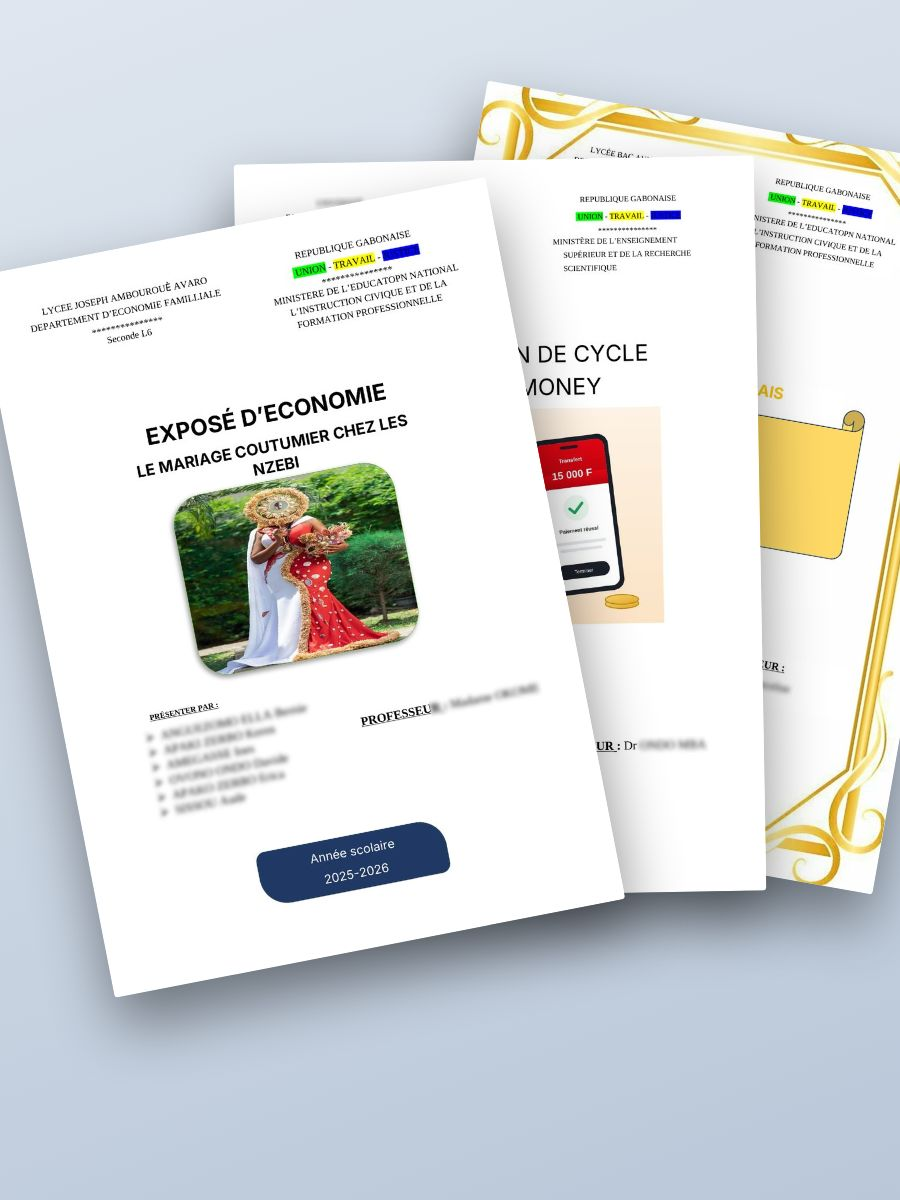
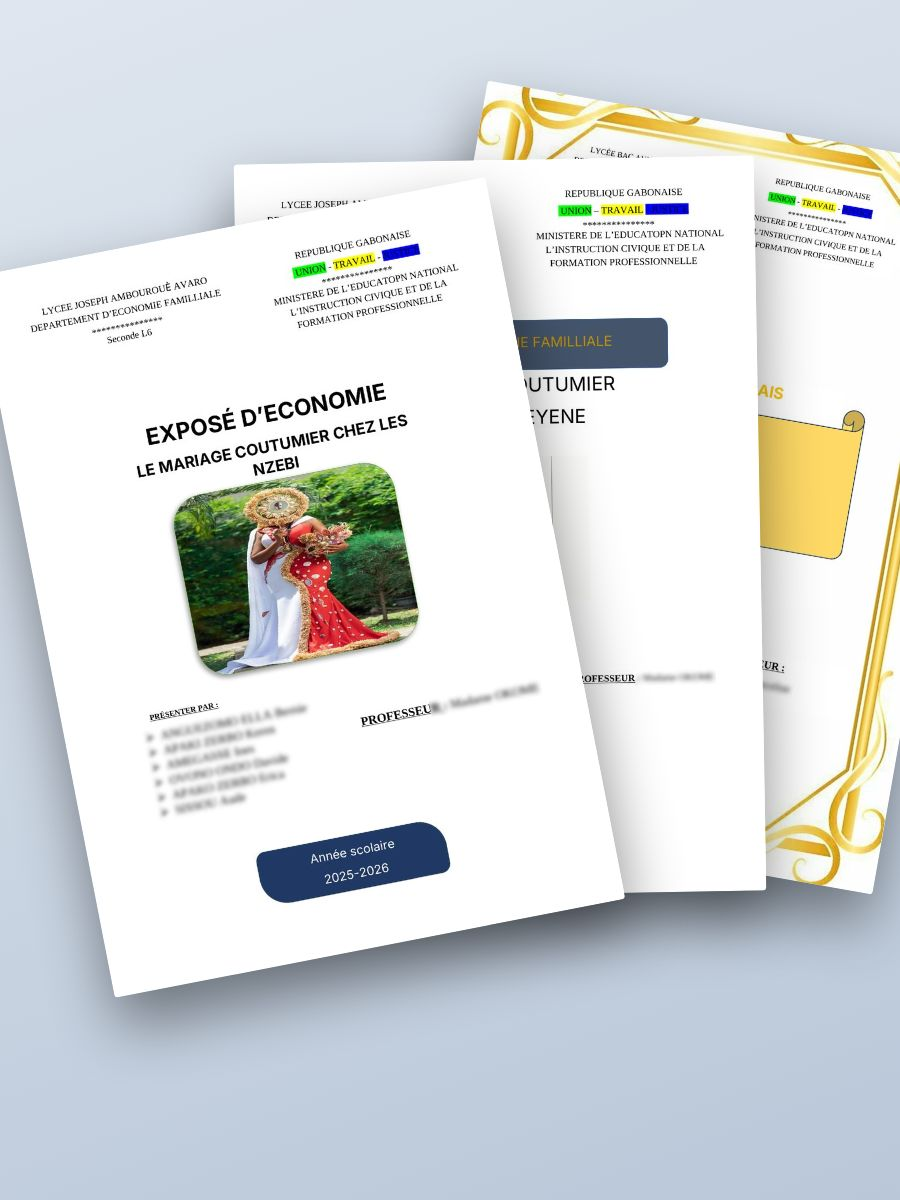
Ne garder que les réalisations réelles, photo sur le CV, ajout de Sentinel-Grid
- DEX : retrait des documents créés (rapport, mémoires, plan d'affaires) ; CV avec photo floutée
- Visuo : retrait des visuels créés, en attente des créations Canva
- Logia : ajout de Sentinel-Grid

Claude-Session: https://claude.ai/code/session_016jUhftS51Xg4Fh975KBxor

diff --git a/visuo.html b/visuo.html
@@ -139,64 +139,24 @@
         <div class="entete-section apparait">
           <p class="surtitre">Nos réalisations</p>
           <h2 class="titre-section" id="titre-real">Sortis de l'atelier.</h2>
-          <p class="intro-section">Affiches, publications, identités, imprimés et sites conçus par Visuo. Touchez un visuel pour l'agrandir.</p>
+          <p class="intro-section">Identités et sites conçus par Visuo. Touchez un visuel pour l'agrandir.</p>
         </div>
         <div class="filtres" data-filtres role="group" aria-label="Filtrer les réalisations">
           <button class="filtre" type="button" data-filtre="tous" aria-pressed="true">Tous</button>
-          <button class="filtre" type="button" data-filtre="affiche" aria-pressed="false">Affiches et flyers</button>
-          <button class="filtre" type="button" data-filtre="reseaux" aria-pressed="false">Réseaux sociaux</button>
           <button class="filtre" type="button" data-filtre="identite" aria-pressed="false">Logos et identité</button>
-          <button class="filtre" type="button" data-filtre="imprime" aria-pressed="false">Imprimés</button>
-          <button class="filtre" type="button" data-filtre="video" aria-pressed="false">Vidéo</button>
           <button class="filtre" type="button" data-filtre="web" aria-pressed="false">Sites web</button>
         </div>
         <div class="planche apparait">
           <div class="planche__grille">
-          <figure class="plan-travail" data-cat="affiche">
-            <figcaption class="plan-travail__nom"><span>Affiche · Rentrée DEX</span><span>A3</span></figcaption>
-            <button class="plan-travail__cadre" type="button" data-pages="assets/img/visuo/affiche-dex.jpg" data-titre="Affiche · Rentrée DEX" data-sous="Format A3"><img src="assets/img/visuo/affiche-dex.jpg" alt="Affiche de rentrée pour DEX" loading="lazy"></button>
-          </figure>
-          <figure class="plan-travail" data-cat="reseaux">
-            <figcaption class="plan-travail__nom"><span>Publication · Logo</span><span>1080 × 1080</span></figcaption>
-            <button class="plan-travail__cadre" type="button" data-pages="assets/img/visuo/post-logo.jpg" data-titre="Publication · Logo" data-sous="Format 1080 × 1080"><img src="assets/img/visuo/post-logo.jpg" alt="Publication carrée pour les logos Visuo" loading="lazy"></button>
-          </figure>
           <figure class="plan-travail" data-cat="identite">
             <figcaption class="plan-travail__nom"><span>Identité · Marques DWTS</span><span>1600 × 1000</span></figcaption>
             <button class="plan-travail__cadre" type="button" data-pages="assets/img/visuo/identite.jpg" data-titre="Identité · Marques DWTS" data-sous="Format 1600 × 1000"><img src="assets/img/visuo/identite.jpg" alt="Planche d’identité des marques DWTS" loading="lazy"></button>
-          </figure>
-          <figure class="plan-travail" data-cat="identite imprime">
-            <figcaption class="plan-travail__nom"><span>Carte de visite · DWTS</span><span>85 × 55 mm</span></figcaption>
-            <button class="plan-travail__cadre plan-travail__duo" type="button" data-pages="assets/img/visuo/carte-recto.jpg|assets/img/visuo/carte-verso.jpg" data-titre="Carte de visite DWTS" data-sous="Recto et verso"><img src="assets/img/visuo/carte-recto.jpg" alt="Carte de visite DWTS, recto" loading="lazy"><img src="assets/img/visuo/carte-verso.jpg" alt="Carte de visite DWTS, verso" loading="lazy"></button>
-          </figure>
-          <figure class="plan-travail" data-cat="affiche">
-            <figcaption class="plan-travail__nom"><span>Flyer · Services Visuo</span><span>A5</span></figcaption>
-            <button class="plan-travail__cadre" type="button" data-pages="assets/img/visuo/flyer-visuo.jpg" data-titre="Flyer · Services Visuo" data-sous="Format A5"><img src="assets/img/visuo/flyer-visuo.jpg" alt="Flyer des services Visuo" loading="lazy"></button>
-          </figure>
-          <figure class="plan-travail" data-cat="reseaux">
-            <figcaption class="plan-travail__nom"><span>Publication · DEX</span><span>1080 × 1080</span></figcaption>
-            <button class="plan-travail__cadre" type="button" data-pages="assets/img/visuo/post-dex.jpg" data-titre="Publication · DEX" data-sous="Format 1080 × 1080"><img src="assets/img/visuo/post-dex.jpg" alt="Publication pour DEX" loading="lazy"></button>
           </figure>
           <figure class="plan-travail" data-cat="web">
             <figcaption class="plan-travail__nom"><span>Site web · DWTS</span><span>1440 × 900</span></figcaption>
             <button class="plan-travail__cadre" type="button" data-pages="assets/img/visuo/site-web.jpg" data-titre="Site web DWTS" data-sous="Site vitrine">
               <span class="cadre-navigateur"><span class="cadre-navigateur__barre"><i></i><i></i><i></i><span>dwts — accueil</span></span><img src="assets/img/visuo/site-web.jpg" alt="Page d’accueil du site DWTS" loading="lazy"></span>
             </button>
-          </figure>
-          <figure class="plan-travail" data-cat="imprime">
-            <figcaption class="plan-travail__nom"><span>Carte d’invitation · Mariage coutumier</span><span>12 × 17 cm</span></figcaption>
-            <button class="plan-travail__cadre" type="button" data-pages="assets/img/visuo/invitation.jpg" data-titre="Carte d’invitation · Mariage coutumier" data-sous="Format 12 × 17 cm"><img src="assets/img/visuo/invitation.jpg" alt="Carte d’invitation de mariage coutumier" loading="lazy"></button>
-          </figure>
-          <figure class="plan-travail" data-cat="video">
-            <figcaption class="plan-travail__nom"><span>Vidéo publicitaire · Story</span><span>1080 × 1920</span></figcaption>
-            <button class="plan-travail__cadre" type="button" data-pages="assets/img/visuo/video.jpg" data-titre="Vidéo publicitaire · Story" data-sous="Format 1080 × 1920"><img src="assets/img/visuo/video.jpg" alt="Image de la vidéo publicitaire Visuo" loading="lazy"></button>
-          </figure>
-          <figure class="plan-travail" data-cat="reseaux">
-            <figcaption class="plan-travail__nom"><span>Publication · Logia</span><span>1080 × 1080</span></figcaption>
-            <button class="plan-travail__cadre" type="button" data-pages="assets/img/visuo/post-logia.jpg" data-titre="Publication · Logia" data-sous="Format 1080 × 1080"><img src="assets/img/visuo/post-logia.jpg" alt="Publication pour Logia" loading="lazy"></button>
-          </figure>
-          <figure class="plan-travail" data-cat="imprime">
-            <figcaption class="plan-travail__nom"><span>Facture · Modèle DWTS</span><span>A4</span></figcaption>
-            <button class="plan-travail__cadre" type="button" data-pages="assets/img/visuo/facture.jpg" data-titre="Facture · Modèle DWTS" data-sous="Format A4"><img src="assets/img/visuo/facture.jpg" alt="Modèle de facture DWTS" loading="lazy"></button>
           </figure>
           </div>
         </div>

diff --git a/dex.html b/dex.html
@@ -64,9 +64,9 @@
         </div>
         <div class="pile" data-pile aria-hidden="true">
           <div class="pile__corps">
-            <img class="pile__page" style="--i:0" src="assets/img/dex/memoire-master.jpg" alt="">
+            <img class="pile__page" style="--i:0" src="assets/img/dex/expose-anglais.jpg" alt="">
             <img class="pile__page" style="--i:1" src="assets/img/dex/expose-classicisme.jpg" alt="">
-            <img class="pile__page" style="--i:2" src="assets/img/dex/memoire-licence.jpg" alt="">
+            <img class="pile__page" style="--i:2" src="assets/img/dex/expose-meyene.jpg" alt="">
             <img class="pile__page" style="--i:3" src="assets/img/dex/expose-nzebi.jpg" alt="">
           </div>
           <span class="pile__trombone"></span>
@@ -214,10 +214,7 @@
         <div class="filtres" data-filtres role="group" aria-label="Filtrer les réalisations">
           <button class="filtre" type="button" data-filtre="tous" aria-pressed="true">Tous</button>
           <button class="filtre" type="button" data-filtre="expose" aria-pressed="false">Exposés</button>
-          <button class="filtre" type="button" data-filtre="rapport" aria-pressed="false">Rapports de stage</button>
-          <button class="filtre" type="button" data-filtre="memoire" aria-pressed="false">Mémoires</button>
           <button class="filtre" type="button" data-filtre="cv" aria-pressed="false">CV et lettres</button>
-          <button class="filtre" type="button" data-filtre="pro" aria-pressed="false">Documents professionnels</button>
         </div>
         <div class="docs">
           <button class="doc apparait" type="button" style="--delai:0.00s" data-cat="expose" data-pages="assets/img/dex/expose-nzebi.jpg|assets/img/dex/expose-nzebi-2.jpg|assets/img/dex/expose-nzebi-3.jpg|assets/img/dex/expose-nzebi-4.jpg|assets/img/dex/expose-nzebi-5.jpg" data-titre="Le mariage coutumier chez les Nzebi" data-sous="Exposé · Économie familiale · Seconde">
@@ -236,25 +233,9 @@
             <span class="doc__pile"><img src="assets/img/dex/expose-classicisme.jpg" alt="Page de garde : Le classicisme" loading="lazy" width="820" height="1159"></span>
             <span class="doc__legende"><b>Le classicisme</b><small>Exposé · Français · Première</small></span>
           </button>
-          <button class="doc apparait" type="button" style="--delai:0.00s" data-cat="rapport" data-pages="assets/img/dex/rapport-stage.jpg" data-titre="La gestion des stocks au sein d’une PME" data-sous="Rapport de stage · BTS Gestion commerciale">
-            <span class="doc__pile"><img src="assets/img/dex/rapport-stage.jpg" alt="Page de garde : La gestion des stocks au sein d’une PME" loading="lazy" width="820" height="1159"></span>
-            <span class="doc__legende"><b>La gestion des stocks au sein d’une PME</b><small>Rapport de stage · BTS Gestion commerciale</small></span>
-          </button>
-          <button class="doc apparait" type="button" style="--delai:0.07s" data-cat="memoire" data-pages="assets/img/dex/memoire-licence.jpg" data-titre="Le mobile money et les petits commerces" data-sous="Mémoire de fin de cycle · Licence 3">
-            <span class="doc__pile"><img src="assets/img/dex/memoire-licence.jpg" alt="Page de garde : Le mobile money et les petits commerces" loading="lazy" width="820" height="1159"></span>
-            <span class="doc__legende"><b>Le mobile money et les petits commerces</b><small>Mémoire de fin de cycle · Licence 3</small></span>
-          </button>
-          <button class="doc apparait" type="button" style="--delai:0.14s" data-cat="memoire" data-pages="assets/img/dex/memoire-master.jpg" data-titre="Gouvernance des PME familiales" data-sous="Mémoire de master · Sciences de gestion">
-            <span class="doc__pile"><img src="assets/img/dex/memoire-master.jpg" alt="Page de garde : Gouvernance des PME familiales" loading="lazy" width="820" height="1159"></span>
-            <span class="doc__legende"><b>Gouvernance des PME familiales</b><small>Mémoire de master · Sciences de gestion</small></span>
-          </button>
-          <button class="doc apparait" type="button" style="--delai:0.21s" data-cat="cv" data-pages="assets/img/dex/cv.jpg|assets/img/dex/lettre.jpg" data-titre="CV et lettre de motivation" data-sous="Assistante comptable · 2 pages">
+          <button class="doc apparait" type="button" style="--delai:0.00s" data-cat="cv" data-pages="assets/img/dex/cv.jpg|assets/img/dex/lettre.jpg" data-titre="CV et lettre de motivation" data-sous="Assistante comptable · 2 pages">
             <span class="doc__pile"><img src="assets/img/dex/cv.jpg" alt="Page de garde : CV et lettre de motivation" loading="lazy" width="820" height="1159"><span class="doc__nb">2 pages</span></span>
             <span class="doc__legende"><b>CV et lettre de motivation</b><small>Assistante comptable · 2 pages</small></span>
-          </button>
-          <button class="doc apparait" type="button" style="--delai:0.00s" data-cat="pro" data-pages="assets/img/dex/plan-affaires.jpg" data-titre="Plan d’affaires 2026" data-sous="Document professionnel · Entreprise">
-            <span class="doc__pile"><img src="assets/img/dex/plan-affaires.jpg" alt="Page de garde : Plan d’affaires 2026" loading="lazy" width="820" height="1159"></span>
-            <span class="doc__legende"><b>Plan d’affaires 2026</b><small>Document professionnel · Entreprise</small></span>
           </button>
           <button class="doc apparait" type="button" style="--delai:0.07s" data-cat="expose" data-pages="assets/img/dex/expose-anglais.jpg" data-titre="Value proposition" data-sous="Exposé · Anglais · École de commerce">
             <span class="doc__pile"><img src="assets/img/dex/expose-anglais.jpg" alt="Page de garde : Value proposition" loading="lazy" width="820" height="1159"></span>

diff --git a/logia.html b/logia.html
@@ -133,6 +133,19 @@
         <div class="vitrines">
           <article class="vitrine apparait">
             <div class="vitrine__visuel">
+              <button type="button" data-pages="assets/img/logia/sentinel-grid.jpg" data-titre="Sentinel-Grid" data-sous="Bot de trading automatique sur Binance" aria-label="Agrandir : tableau de suivi de Sentinel-Grid">
+                <span class="telephone"><span class="telephone__ecran telephone__ecran--fixe"><img src="assets/img/logia/sentinel-grid.jpg" alt="" loading="lazy"></span></span>
+              </button>
+            </div>
+            <div class="vitrine__texte">
+              <p class="surtitre">Bot de trading</p>
+              <h3>Sentinel-Grid, un robot qui trade seul sur Binance.</h3>
+              <p>Un bot de trading automatique qui fonctionne en continu, avec une application de suivi : statistiques en direct, activité et réglages, depuis le téléphone.</p>
+              <ul><li>Connexion en temps réel à Binance</li><li>Statistiques : nombre de trades, taux de réussite, profit factor</li><li>Tableau de bord, activité et réglages sur mobile</li></ul>
+            </div>
+          </article>
+          <article class="vitrine apparait">
+            <div class="vitrine__visuel">
               <button type="button" data-pages="assets/img/logia/bot.jpg" data-titre="Bot WhatsApp DEX" data-sous="Prise de commande automatique" aria-label="Agrandir : conversation avec le bot WhatsApp de DEX">
                 <span class="telephone"><span class="telephone__ecran"><img src="assets/img/logia/bot.jpg" alt="" loading="lazy"></span></span>
               </button>

diff --git a/assets/css/style.css b/assets/css/style.css
@@ -1451,3 +1451,6 @@ body::after {
 .selection { margin-top: 26px; }
 @media (max-width: 900px) { .pile { transform: translateX(8%); } }
 .visionneuse__scene img { max-height: calc(100vh - 210px); max-height: calc(100svh - 210px); }
+.telephone__ecran--fixe { background: #05080f; }
+.telephone__ecran--fixe { display: flex; align-items: center; }
+.telephone__ecran--fixe img { animation: none; width: 100%; height: auto; }
